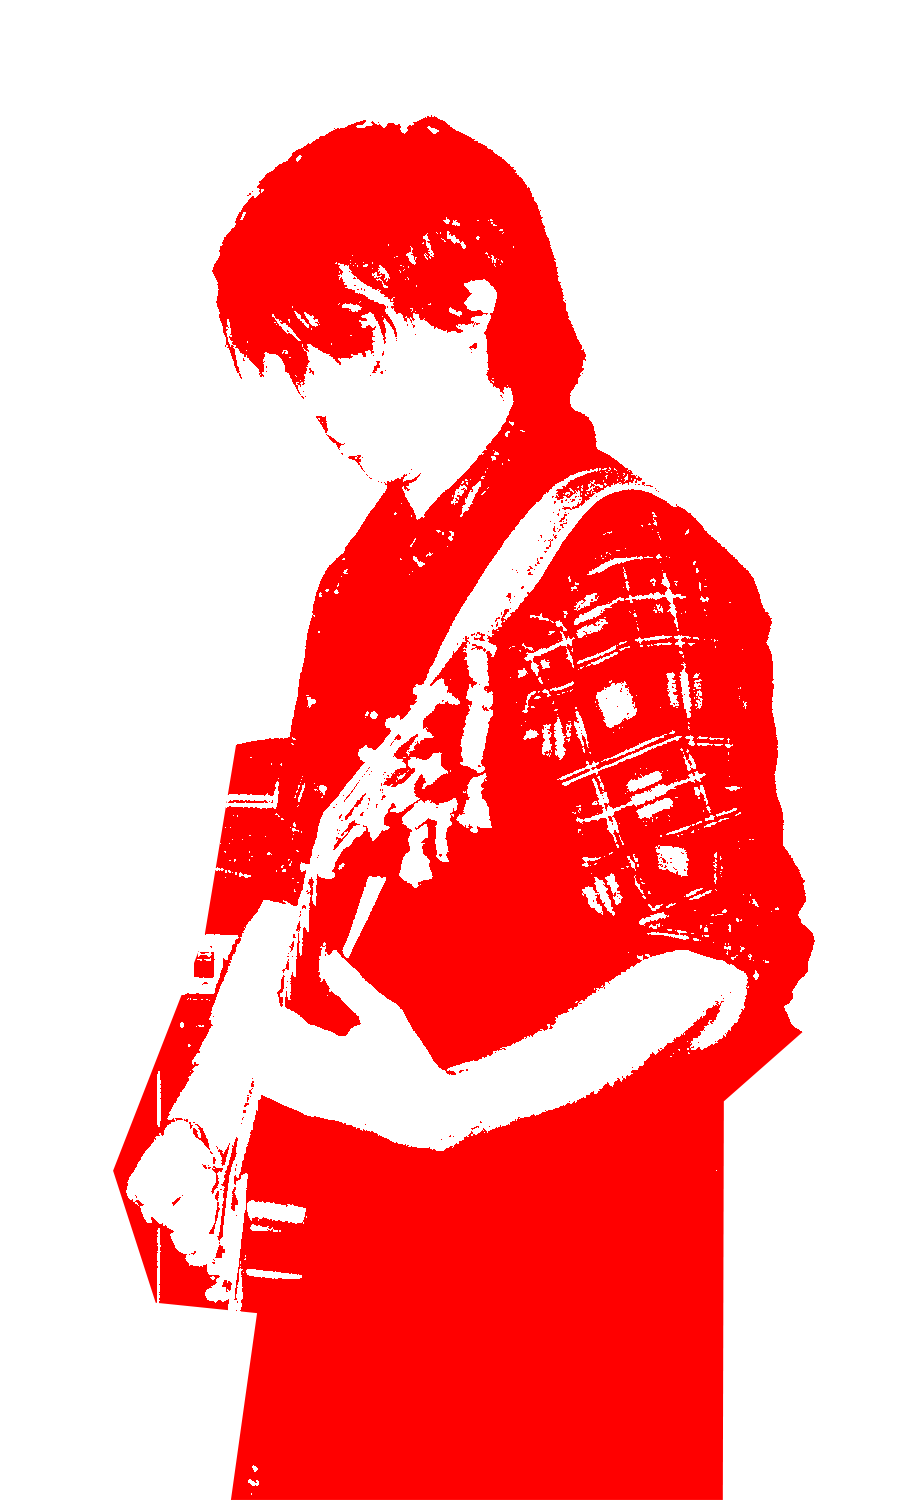
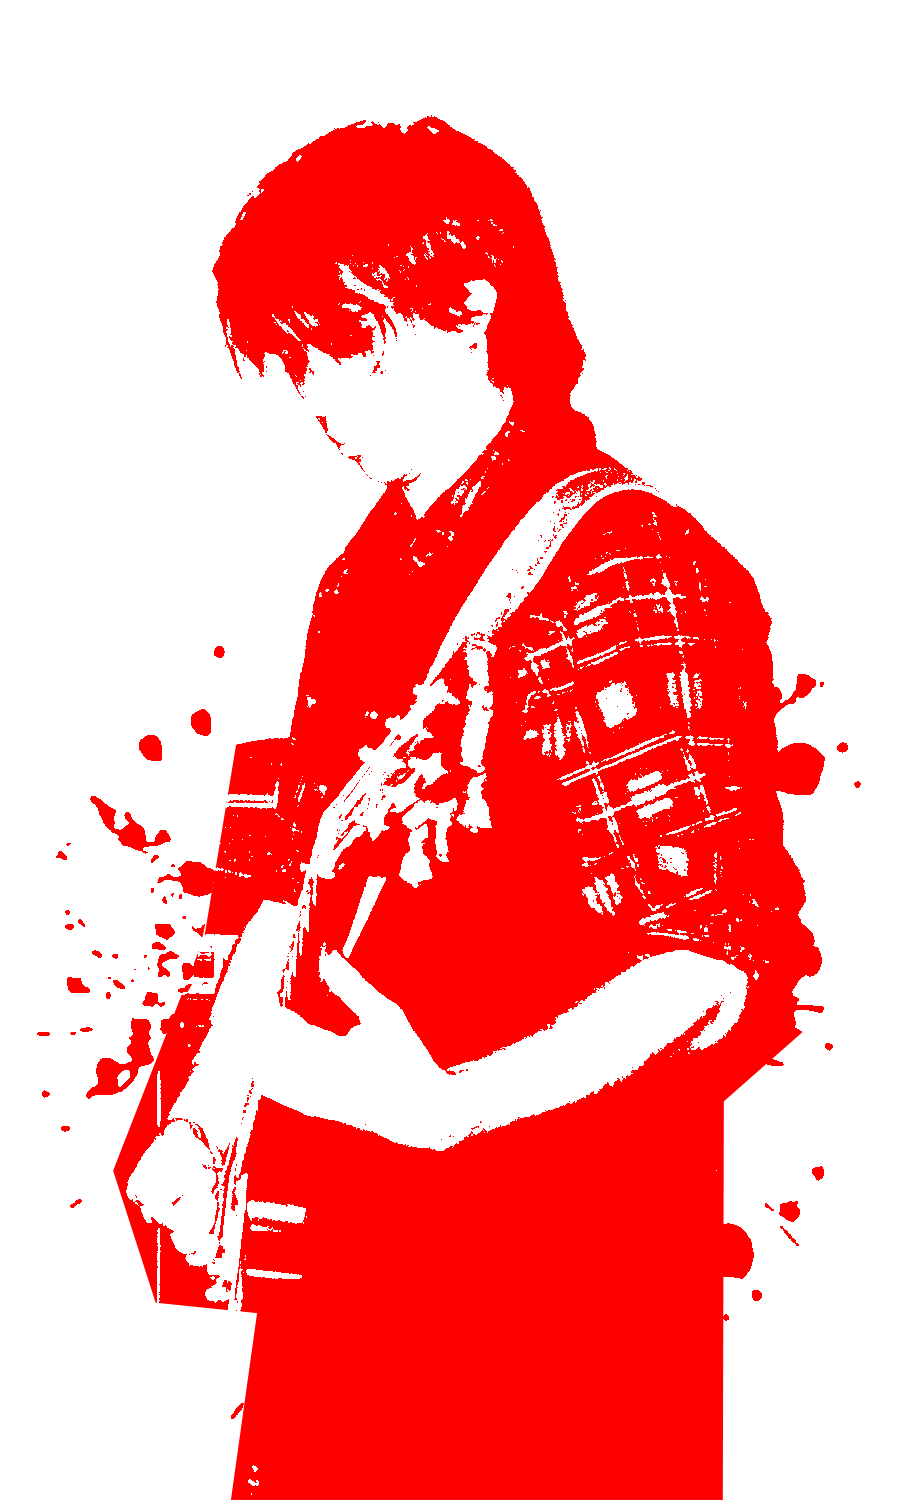
changes

diff --git a/styles.css b/styles.css
@@ -69,8 +69,7 @@ tr {
   text-decoration: none;
   text-align: center;
   font-size: clamp(2rem, 6vw, 3rem); 
-  padding: 10%;
-  margin: 10px;
+  line-height: 200%;
   position: relative;
 }
 
@@ -87,7 +86,7 @@ tr {
   font: "Helvetica", serif;
   text-decoration: none;
   text-align: center;
-  font-size: clamp(2.5rem, 10vw, 4rem); 
+  font-size: clamp(2.5rem, 12vw, 5rem); 
   position: relative;
 }
 
@@ -98,6 +97,7 @@ tr {
   text-align: center;
   font-size: clamp(1.5rem, 4vw, 2rem); 
   position: relative;
+  padding: 20px;
 }
 
 .frontpagelinks {
@@ -132,14 +132,24 @@ tr {
   position: relative;  
 }
 
+.streamingnote {
+  color: rgb(255, 0, 0);
+  font: "Helvetica", serif;
+  text-decoration: none;
+  font-style: italic;
+  text-align: center;
+  font-size: clamp(1rem, 4vw, 1.5rem); 
+  width: 30%;
+  margin: 30px auto;
+  position: relative;
+}
+
 .linksmall {
   color: rgb(255, 0, 0);
   font: "Helvetica", serif;
   text-decoration: underline;
   font-style: italic;
-  text-align: center;
   font-size: clamp(1.25rem, 4vw, 1.5rem);   
-  position: relative;
 }
 
 .backtotopcontainer {
@@ -235,9 +245,9 @@ tr {
   font: "Helvetica", serif;
   font-size: clamp(0.5rem, 4vw, 1rem); 
   padding: 15px 30px;
-  color:white;
-  background-color: red;
-  outline: none;
+  color:red;
+  background: white;
+  outline: 2px solid red;
   border: none;
   cursor: pointer;
 }
@@ -246,36 +256,93 @@ tr {
 
 .junephoto {
   float: left;
-  width: 100px;
-  height: auto;
-  position: absolute;
-  top: 20%;
-  left: 10%;
-  z-index: -1; /* Puts image behind text */
-}
-
-.lespaulphoto {
-  float: left;
   width: 30%;
   height: auto;
   position: absolute;
   top: 20%;
-  left: 10px;
+  left: 5%;
   z-index: -1; /* Puts image behind text */
 }
-.photocontainer {
-  display: block;
-  justify-content: center;
-  align-items: center;
+
+.jamesphoto {
+  float: right;
+  width: 23%;
+  height: auto;
+  position: absolute;
+  top: 10%;
+  right: 10%;
+  z-index: -1; /* Puts image behind text */
 }
 
-.filmphoto {
-  width: 50%;
-
+.gunphoto {
+  float: left;
+  width: 30%;
+  height: auto;
+  position: absolute;
+  top: 10%;
+  left: 10%;
+  z-index: -1; /* Puts image behind text */
+  transform: rotate(5deg);
 }
 
-@media (max-width:400px) {
-  .junephoto, .lespaulphoto  {
+.lespaulphoto {
+  float: left;
+  width: 25%;
+  height: auto;
+  position: absolute;
+  top: 12%;
+  left: 0.5%;
+  z-index: -1; /* Puts image behind text */
+}
+
+.hangingmicphoto {
+  float: left;
+  width: 10%;
+  height: auto;
+  position: absolute;
+  right:10%;
+  top: 0px;
+  z-index: -1; /* Puts image behind text */
+}
+
+
+.madiphoto {
+  width:50%;
+  height: auto;
+  left: 25px;
+  position: absolute;
+  top: 150px;
+  z-index: -1; /* Puts image behind text */
+}
+
+.isabellaphoto {
+  width:30%;
+  height: auto;
+  right: 0px;
+  position: absolute;
+  top: 50%;
+  z-index: -1; /* Puts image behind text */
+}
+
+.crimescenetags {
+  width:100%;
+  height:100%;
+  height: auto;
+  left: 0px;
+  top: 0px;
+  position: absolute;
+  z-index: -1; /* Puts image behind text */
+}
+
+
+@media (max-width:900px) {
+  .junephoto, .jamesphoto, .gunphoto {
+    display:none;
+  }
+}
+
+@media (max-width:1200px) {
+  .lespaulphoto, .hangingmicphoto  {
     display:none;
   }
 }

diff --git a/links.html b/links.html
@@ -10,15 +10,21 @@
     <div style="padding: 20px;" class="container"><p class="header">links</p></div>
    
     <img class="junephoto" src="june.png">
+    <img class="gunphoto" src="gun.png">
+    <img class="jamesphoto" src="jame.png">
     <div class="linkscontainer">
       <p><a class="links" href="https://www.instagram.com/movieswithmurder">instagram</a></p>
       <p><a class="links" href="https://www.tiktok.com/@movieswithmurder">tiktok</a></p>
       <p><a class="links" href="https://www.youtube.com/@murdermoviesband">youtube</a></p>
-      <p style="padding:20px; width:30%; " class="notes">we are not currently available on streaming as we are actively working on our debut album. </p> <br>
+
     </div>
 
-    <div style="padding: 20px;" class="container">
-      <br><p><a class="linksmall" href="./">back to top</a></p>
+    <div style="text-align: center;"> 
+      <p class="streamingnote">we are not currently available on streaming as we are actively working on our debut album. </p> <br>
+    <div>
+
+    <div>
+        <p><a class="linksmall" href="./">back to top</a></p>
     </div>
   </body>
 </html>

diff --git a/contact.html b/contact.html
@@ -19,12 +19,11 @@
                 <textarea name="message" placeholder="your message" class="contactinputs" required></textarea>
                 <button type="submit">submit</button>
                 <div style="text-align: center;">
-                    <p><a class="linksmall" href="./">back to top</a></p>
+                    <br><p><a class="linksmall" style="padding: 10px; background: white; color: red;" href="./">back to top</a></p>
                 </div>
+                <img src="madi.png" class="madiphoto">
         </form>
     </div>
-  <div class="photocontainer"> 
-    <img class="filmphoto" src="filmphoto.png">
-  </div>
+
   </body>
 </html>

diff --git a/lyrics.html b/lyrics.html
@@ -10,8 +10,9 @@
     <div class="container"> 
         <p class="header">lyrics</p>
     </div>
-
+  
     <img class="lyricsgraphic" src="phone for website.png"> 
+    <img class="isabellaphoto" src="isabella.png"> 
     <div class="lyricscontainer">
         <h1 class="lyricheader">Cried Out Goodbye</h1>
         <p class="lyrics">a hundred times i wasted breathe towards you <br>

diff --git a/index.html b/index.html
@@ -10,7 +10,6 @@
     <meta name="viewport" content="width=device-width, height=device-height, initial-scale=1.0">
   </head>
   <body>
-    <p>is this working?</p>
     <div class="logocontainer">
       <img src="murder movies logo red.png" class="logo">
     </div>

diff --git a/shows.html b/shows.html
@@ -8,6 +8,7 @@
   </head>
   <body>
     <img class="lespaulphoto" src="lespaul.png">
+    <img class="hangingmicphoto" src="hanging mic.png">
     <div class="container"> 
       <p class="header">upcoming shows</p> 
     </div>
